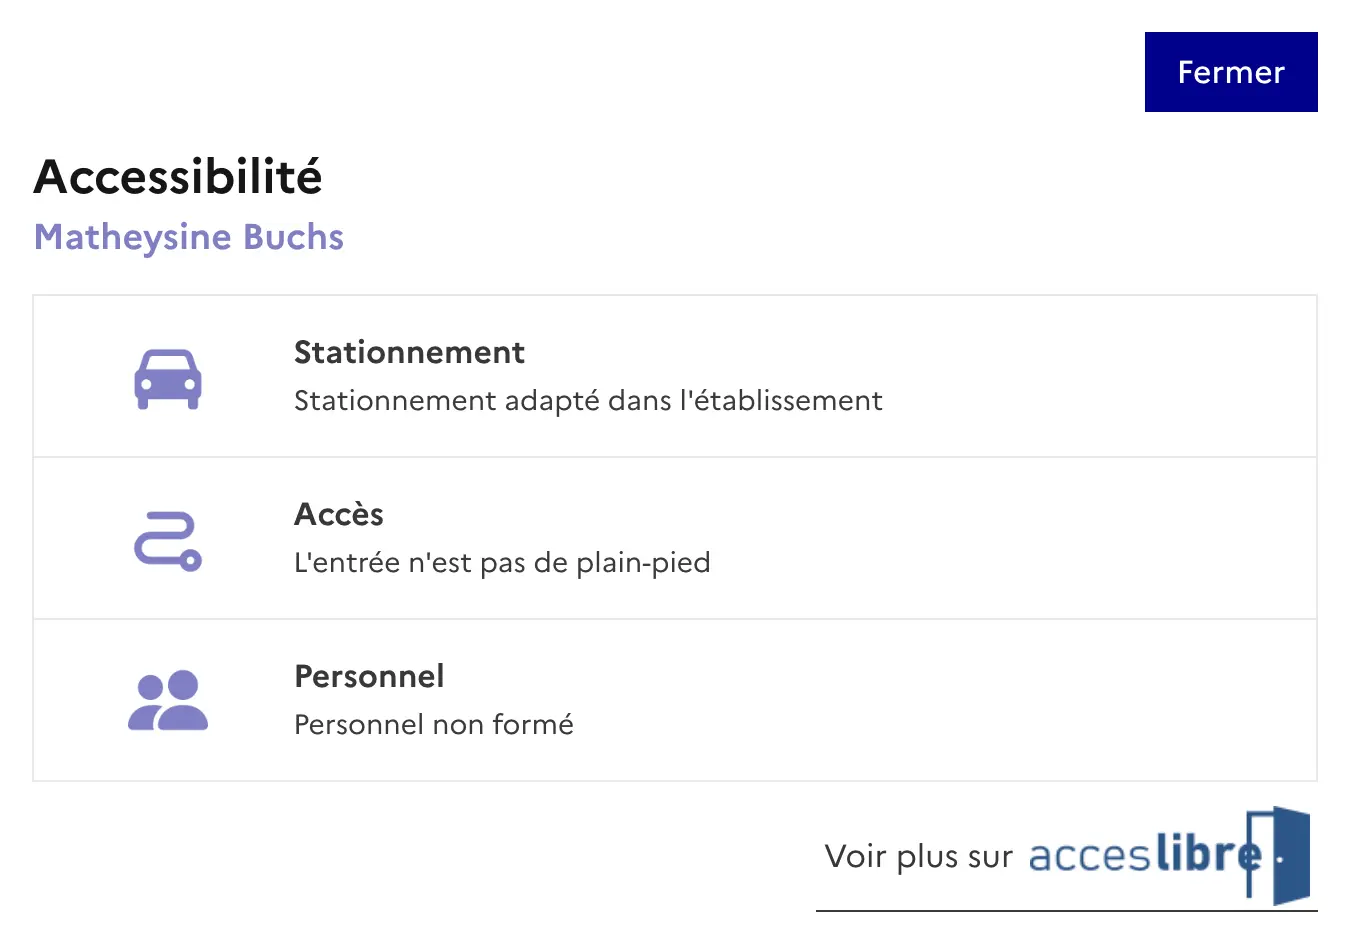
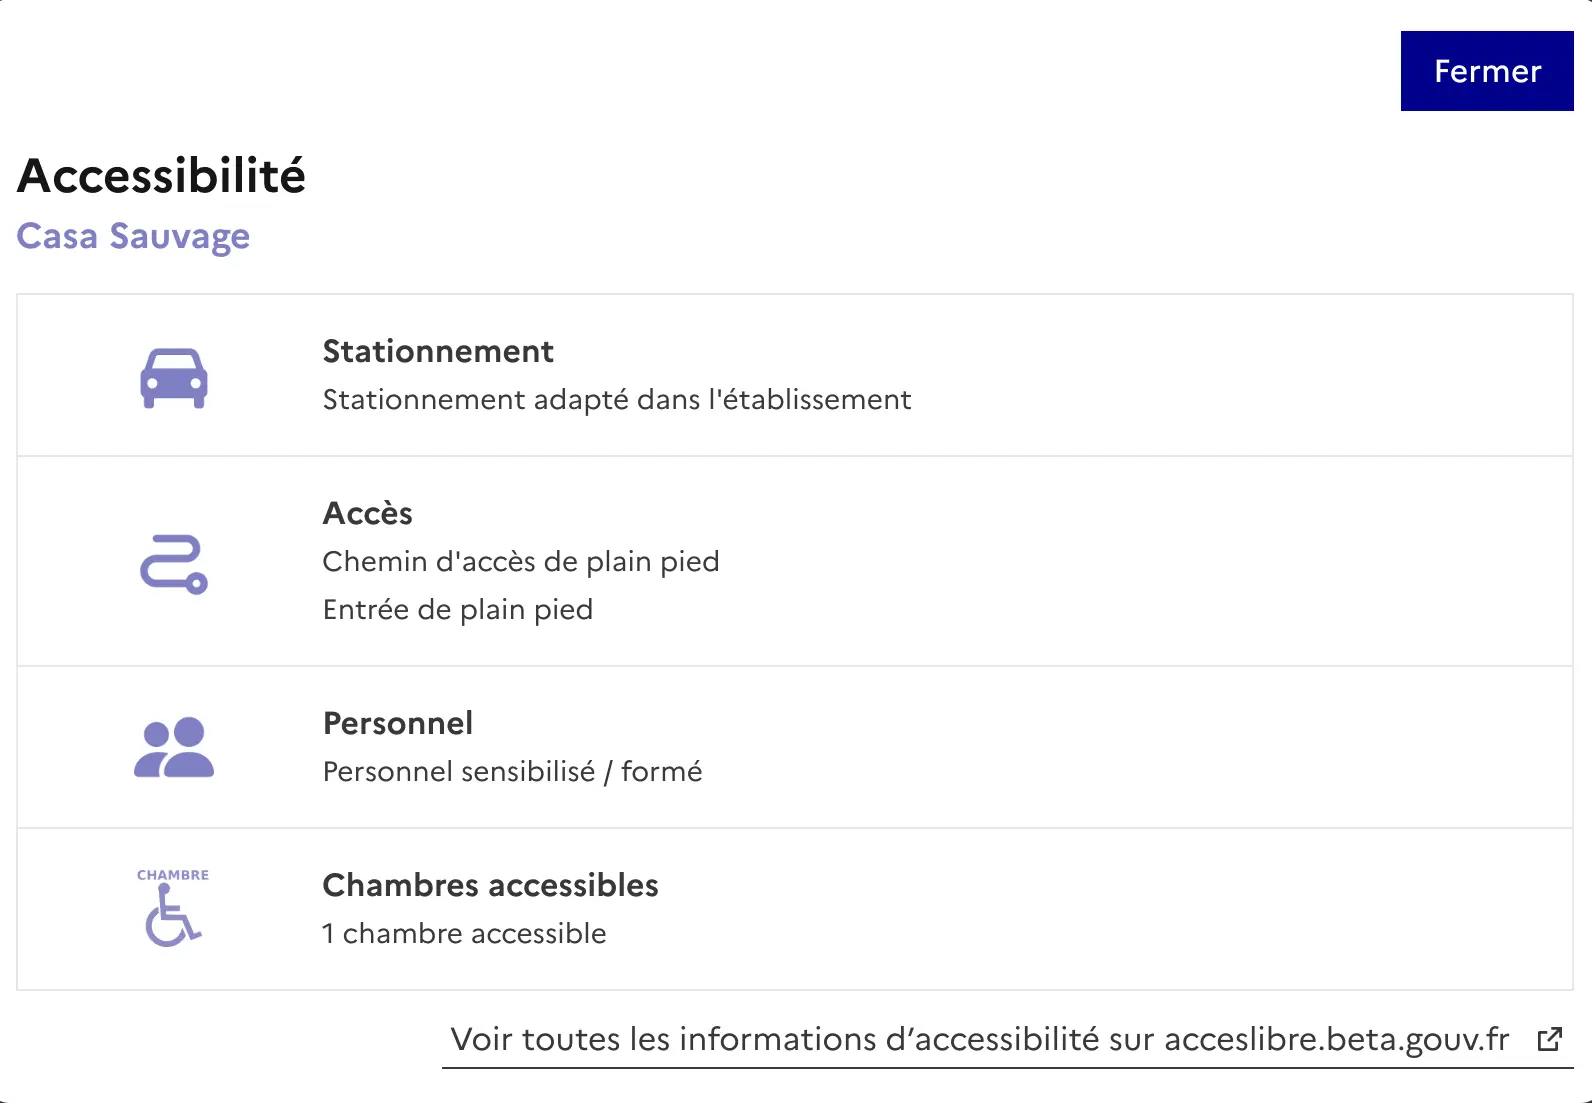
chore: widget texte and rules updates sports equipment + erp pdf updated (#2989)
* chore: widget updates and one case added for sports equipment

* chore: more cases for widget sports equipment and rpa pdf updated

diff --git a/templates/erp/widget/index.html b/templates/erp/widget/index.html
@@ -1,5 +1,4 @@
 {% extends "erp/widget/base.html" %}
-{% load static %}
 {% load i18n %}
 {% block modal_content %}
     <div class="fr-modal__content">
@@ -30,13 +29,9 @@
                href="{{ erp.get_absolute_uri }}"
                rel="noopener"
                target="_blank"
-               aria-label="{% translate "Ouvrir une nouvelle fenêtre vers le site internet Acceslibre" %}"
+               title="{% translate "Voir toutes les informations d’accessibilité sur acceslibre.beta.gouv.fr" %} - {% translate "nouvelle fenêtre" %}"
                class="fr-text--md btn_acceslibre">
-                {% translate "Voir plus sur" %}
-                <img src="{{ base_url }}{% static 'img/logo-acceslibre-widget.png' %}"
-                     alt=""
-                     width="140"
-                     height="50">
+                {% translate "Voir toutes les informations d’accessibilité sur acceslibre.beta.gouv.fr" %}
             </a>
         </p>
     </div>

diff --git a/templates/erp/template_erp_rpa.html b/templates/erp/template_erp_rpa.html
@@ -117,6 +117,24 @@
             padding-left: 12px;
         }
 
+        /* Don't use native bullets: WeasyPrint then tags nested lists as siblings of their parent list item in the PDF, instead of children (read by screen readers) */
+        li {
+            list-style: none;
+            position: relative;
+        }
+
+        li::before {
+            content: "•";
+            position: absolute;
+            right: 100%;
+            padding-right: .3em;
+        }
+
+        ul ul li::before {
+            content: "◦";
+            padding-right: .36em;
+        }
+
         header {
             position: relative;
             display: flex;

diff --git a/tests/erp/test_widget.py b/tests/erp/test_widget.py
@@ -27,11 +27,21 @@ def test_get_widget(client, django_assert_max_num_queries):
 @pytest.mark.parametrize(
     "params, headers, expected_lang, expected_text",
     (
-        ({}, {}, "fr", "Voir plus sur"),
-        ({}, {"HTTP_ACCEPT_LANGUAGE": "en"}, "en", "See more on"),
-        ({"lang": "en"}, {}, "en", "See more on"),
-        ({"lang": "fr"}, {"HTTP_ACCEPT_LANGUAGE": "en"}, "fr", "Voir plus sur"),
-        ({"lang": "xx"}, {"HTTP_ACCEPT_LANGUAGE": "en"}, "en", "See more on"),
+        ({}, {}, "fr", "Voir toutes les informations d’accessibilité sur acceslibre.beta.gouv.fr"),
+        ({}, {"HTTP_ACCEPT_LANGUAGE": "en"}, "en", "See all accessibility information on acceslibre.beta.gouv.fr"),
+        ({"lang": "en"}, {}, "en", "See all accessibility information on acceslibre.beta.gouv.fr"),
+        (
+            {"lang": "fr"},
+            {"HTTP_ACCEPT_LANGUAGE": "en"},
+            "fr",
+            "Voir toutes les informations d’accessibilité sur acceslibre.beta.gouv.fr",
+        ),
+        (
+            {"lang": "xx"},
+            {"HTTP_ACCEPT_LANGUAGE": "en"},
+            "en",
+            "See all accessibility information on acceslibre.beta.gouv.fr",
+        ),
     ),
 )
 def test_get_widget_language(client, params, headers, expected_lang, expected_text):
@@ -168,20 +178,26 @@ def test_get_vestiaires_label(accueil_vestiaires, expected_label):
 
 
 @pytest.mark.parametrize(
-    "individuelles_adaptees, collectives_adaptees, expected_label",
+    "individuelles_adaptees, collectives, collectives_adaptees, expected_label",
     (
-        (None, None, ""),
-        (None, True, ""),
-        (True, None, "Douches individuelles accessibles"),
-        (True, False, "Douches individuelles accessibles"),
-        (False, None, ""),
-        (False, False, "Douches non accessibles"),
-        (False, True, "Douches collectives accessibles"),
+        (True, None, None, "Douches individuelles accessibles"),
+        (True, True, False, "Douches individuelles accessibles"),
+        (False, None, None, ""),
+        (False, False, None, "Douches non accessibles"),
+        (False, True, None, ""),
+        (False, True, False, "Douches non accessibles"),
+        (False, True, True, "Douches collectives accessibles"),
+        (None, None, None, ""),
+        (None, False, None, ""),
+        (None, True, None, ""),
+        (None, True, False, "Douches non accessibles"),
+        (None, True, True, "Douches collectives accessibles"),
     ),
 )
-def test_get_douches_label(individuelles_adaptees, collectives_adaptees, expected_label):
+def test_get_douches_label(individuelles_adaptees, collectives, collectives_adaptees, expected_label):
     access = Accessibilite(
         accueil_douches_individuelles_adaptees=individuelles_adaptees,
+        accueil_douches_collectives=collectives,
         accueil_douches_collectives_adaptees=collectives_adaptees,
     )
 

diff --git a/erp/widget_utils.py b/erp/widget_utils.py
@@ -254,13 +254,16 @@ def get_vestiaires_label(access):
 
 
 def get_douches_label(access):
-    if access.accueil_douches_individuelles_adaptees is True:
+    individuelles_adaptees = access.accueil_douches_individuelles_adaptees
+    if individuelles_adaptees is True:
         return translate("Douches individuelles accessibles")
-    if access.accueil_douches_individuelles_adaptees is not False:
-        return ""
 
+    # Individual showers not accessible or unknown: fall back on collective showers.
     if access.accueil_douches_collectives_adaptees is True:
         return translate("Douches collectives accessibles")
     if access.accueil_douches_collectives_adaptees is False:
+        return translate("Douches non accessibles")
+    # No collective showers is only conclusive when individual showers are known not to be accessible.
+    if access.accueil_douches_collectives is False and individuelles_adaptees is False:
         return translate("Douches non accessibles")
     return ""
